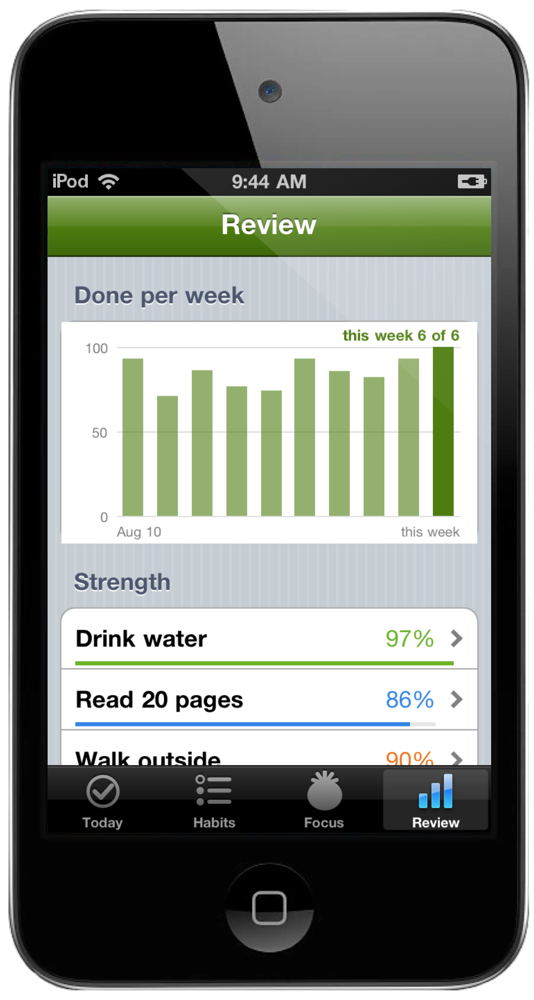
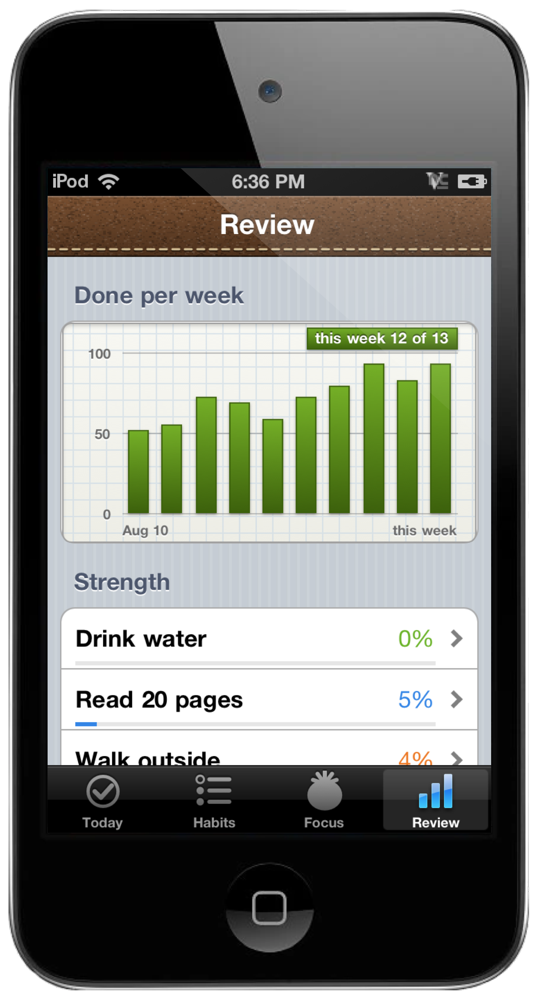
Site: screenshots for the skeuomorphic Habits, Sets and Radio, copy to match
Claude-Session: https://claude.ai/code/session_01BivNT7AHmqnGRVDqSF16xf

Changed region(s): [[0.0899, 0.31, 0.8989, 0.589], [0.0899, 0.155, 0.9288, 0.279], [0.1498, 0.62, 0.839, 0.775]]

diff --git a/site/habits.html b/site/habits.html
@@ -18,12 +18,12 @@
 <div id="sub"><div class="wrap"><span class="name">Habits</span><nav><a class="on" href="habits.html">Overview</a><a href="install.html">Install</a><a href="https://github.com/mannanshukla/habits-ios4">Source</a><a class="buy" href="https://sp-8144a86bfae8a7f5.s3.us-west-2.amazonaws.com/ipa/Habits-1.0.ipa">Download</a></nav></div></div>
 <div class="hero"><div class="wrap">
   <h1>Small things. Every day.</h1>
-  <h2>Check them off. Watch them add up.</h2>
+  <h2>Leather, lined paper, a red margin. Check them off. Watch them add up.</h2>
   <img src="img/habitstoday-device.png" width="300" alt="Habits">
 </div></div>
 <div class="wrap">
   <div class="feature"><div class="pic"><img src="img/habitsplan-device.png" alt="A plan from a goal"></div><div class="txt"><h3>Say the goal. Get the habits.</h3><p>Type what you want, like "run a 10k in spring" or "less phone at night". OpenRelay turns it into a handful of small daily habits with targets, days and reminder times. Keep the ones you like.</p></div></div>
-  <div class="feature flip"><div class="pic"><img src="img/habitsdetail-device.png" alt="Twelve weeks at a glance"></div><div class="txt"><h3>Twelve weeks on one screen.</h3><p>Every habit has a strength score that forgives a bad day instead of resetting you to zero. See your streak, your best, and which weekdays you actually do the thing.</p></div></div>
+  <div class="feature flip"><div class="pic"><img src="img/habitsdetail-device.png" alt="Twelve weeks at a glance"></div><div class="txt"><h3>Don't break the chain.</h3><p>A wall calendar with a red X on every day you did it, twelve weeks at a glance. Every habit has a strength score that forgives a bad day instead of resetting you to zero, plus your streak, your best, and which weekdays you actually do the thing.</p></div></div>
   <div class="feature"><div class="pic"><img src="img/habitsfocus-device.png" alt="Review with focus history"></div><div class="txt"><h3>Your week, in a chart.</h3><p>How much you did each week and where every habit stands. Then a few honest sentences from OpenRelay about what worked and what to try next.</p></div></div>
   <div class="feature"><div class="pic"><img src="img/habitstomato-device.png" alt="The tomato timer"></div><div class="txt"><h3>Twenty-five minutes. One tomato.</h3><p>Tap it and it ripens from green to red as you work. Rings when it's done, even with the iPod asleep, then runs the break. Each finished tomato can count toward a habit, like twenty pages or an hour of deep work. The Review tab keeps a two-week chart of them and your focused hours.</p></div></div>
   <div class="feature flip"><div class="pic"><img src="img/habitsedit-device.png" alt="Edit a habit"></div><div class="txt"><h3>Yes or no. Or count. Or measure.</h3><p>Eight glasses, twenty pages, or just did it. Pick the days, set a reminder, and it rings on the iPod with no Wi-Fi needed.</p></div></div>

diff --git a/site/radio.html b/site/radio.html
@@ -22,7 +22,7 @@
   <img src="img/radiotuner-device.png" width="300" alt="Radio">
 </div></div>
 <div class="wrap">
-  <div class="feature"><div class="pic"><img src="img/radiotuner-device.png" alt="The tuner"></div><div class="txt"><h3>A dial, not a dropdown.</h3><p>Drag the band and the needle settles on the nearest station and starts it. Every station sits at its real frequency: KQED at 88.5, KALX at 90.7, WPRB at 103.3. Four bands: Bay Area, California, East Coast, Northwest.</p></div></div>
+  <div class="feature"><div class="pic"><img src="img/radiotuner-device.png" alt="The tuner"></div><div class="txt"><h3>A dial, not a dropdown.</h3><p>Brushed metal, four screws, a backlit glass window. Drag the band and the needle settles on the nearest station and starts it. Every station sits at its real frequency: KQED at 88.5, KALX at 90.7, WPRB at 103.3. Four bands: Bay Area, California, East Coast, Northwest.</p></div></div>
   <div class="feature flip"><div class="pic"><img src="img/radiolist-device.png" alt="The station list"></div><div class="txt"><h3>College radio, coast to coast.</h3><p>Berkeley, Stanford, Foothill, San Jose State and Santa Clara. Princeton, Rutgers, Columbia, NYU, Fordham, Harvard, MIT, Brown, Penn, Chicago, Chapel Hill and Georgia Tech. Plus KCSM jazz, KPFA, KEXP, KCRW, WFMU, Radio Paradise and six SomaFM channels from San Francisco. Add any Icecast or Shoutcast address of your own.</p></div></div>
   <div class="feature"><div class="pic"><img src="img/radiosleep-device.png" alt="Sleep timer"></div><div class="txt"><h3>Keeps playing. Then stops.</h3><p>Lock the iPod and it keeps going, with the station on the lock screen and the headphone clicker to pause or skip. A sleep timer for 15 minutes to two hours. The song title comes straight from the stream, the way Icecast servers have sent it since the nineties.</p></div></div>
   <div class="buy"><a class="btn" href="https://sp-8144a86bfae8a7f5.s3.us-west-2.amazonaws.com/ipa/Radio-1.0.ipa">Download Radio</a><small>Version 1.0. 43 KB. No account, no API key, nothing to set up. Stream addresses checked October 2026. <a href="https://github.com/mannanshukla/radio-ios4">Source on GitHub</a>.</small></div>

diff --git a/site/sets.html b/site/sets.html
@@ -1,9 +1,9 @@
 <!DOCTYPE html>
 <html lang="en"><head><meta charset="utf-8"><title>Sets for iPod touch</title><meta name="viewport" content="width=device-width, initial-scale=1">
-<meta name="description" content="Every rep, on your iPod. A workout log that stays local.">
-<meta property="og:type" content="website"><meta property="og:title" content="Sets for iPod touch"><meta property="og:description" content="Every rep, on your iPod. A workout log that stays local.">
+<meta name="description" content="Every rep, on a paper log. A workout log that stays local.">
+<meta property="og:type" content="website"><meta property="og:title" content="Sets for iPod touch"><meta property="og:description" content="Every rep, on a paper log. A workout log that stays local.">
 <meta property="og:image" content="https://openrelay-ipod-r4fdf8.spwt.app/img/og.jpg"><meta property="og:image:width" content="1200"><meta property="og:image:height" content="630">
-<meta name="twitter:card" content="summary_large_image"><meta name="twitter:title" content="Sets for iPod touch"><meta name="twitter:description" content="Every rep, on your iPod. A workout log that stays local."><meta name="twitter:image" content="https://openrelay-ipod-r4fdf8.spwt.app/img/og.jpg">
+<meta name="twitter:card" content="summary_large_image"><meta name="twitter:title" content="Sets for iPod touch"><meta name="twitter:description" content="Every rep, on a paper log. A workout log that stays local."><meta name="twitter:image" content="https://openrelay-ipod-r4fdf8.spwt.app/img/og.jpg">
 <link rel="icon" href="img/icon.png"><link rel="stylesheet" href="style.css"></head><body>
 <div id="gn"><input type="checkbox" id="menu"><label class="burger" for="menu" aria-label="Menu">&#9776;</label><ul>
 <li><a href="index.html" class="home" title="iPod touch 4"><svg width="22" height="22" viewBox="0 0 22 22" aria-label="iPod touch 4"><circle cx="11" cy="11" r="10" fill="none" stroke="#ddd" stroke-width="1.6"/><rect x="7" y="7" width="8" height="8" rx="2" fill="none" stroke="#ddd" stroke-width="1.6"/></svg></a></li>
